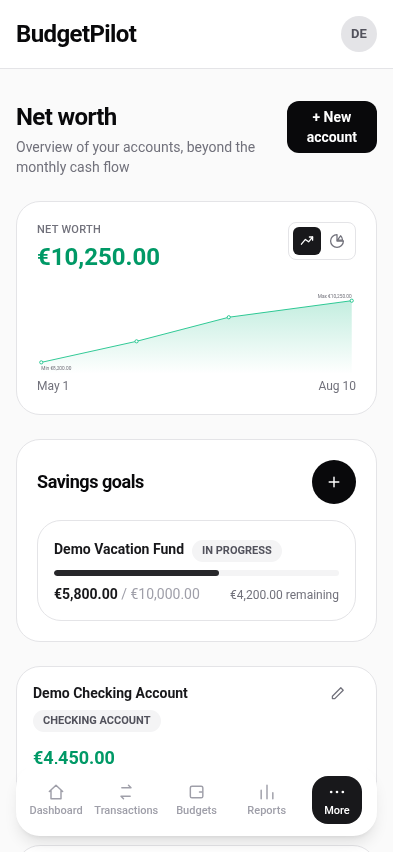
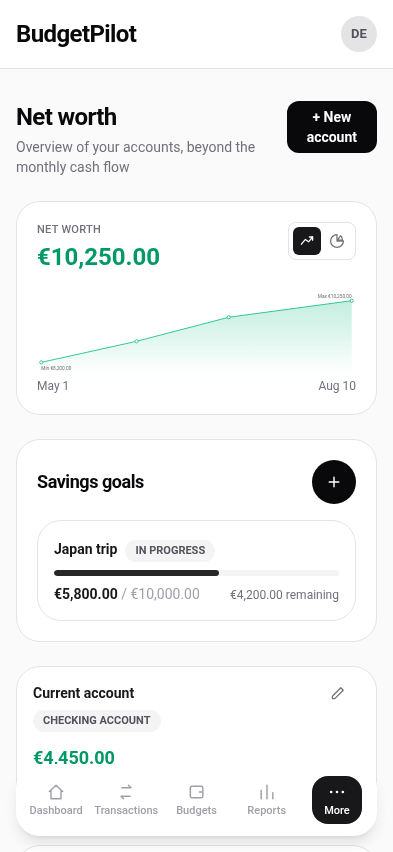
docs(fixture): real merchants, and one seeded state every image comes from
The demo dataset named its merchants « CORNER MARKET », « THE CORNER BISTRO »,
« Demo Corp Salary » and « Demo Vacation Fund ». Nothing about that reads as
a real account, and a screenshot of obviously-fake data teaches the reader to
discount what they are looking at. Every label is now a merchant someone
could actually have: LIDL, PAUL, PIZZA EXPRESS, SUSHI SHOP, TRAINLINE, UBER,
DECATHLON, ODEON CINEMA, CITY PHARMACY, AMAZON, AIRBNB, NETFLIX, RENT,
SALARY, with a « Current account », a « Savings account » and a « Japan trip »
goal.

Amounts and categories are UNCHANGED, deliberately, so every figure the docs
quote — €149.22, €115.50, €50.10, €401.22, the 80% pair, the €4,450.00
anchor — still describes the fixture. Only names moved.

THE ARRANGEMENT MOVED INTO THE SEED. The three budgets and the one user rule
that several images need were previously set up by hand and described in two
folder READMEs; they are now created by `demo-screenshots.mjs`, so a single
command reproduces every screenshot in the repo from nothing. The READMEs
now record what the seed does rather than what a reader must do.

TWO NUMBERS MOVED WITH THE NAMES, AND BOTH WERE RE-MEASURED RATHER THAN
ADJUSTED. Real merchants are matched by the shipped rules, so the rules
preview reports 23 affected transactions instead of 6 — and the
manual-category check was re-run end to end on the new fixture: 23, then 22
with one transaction manually categorised, then 23 again once cleared. That
[…]

Changed region(s): [[0.1527, 0.6408, 0.7023, 0.6714], [0.0916, 0.7934, 0.4885, 0.8239]]

diff --git a/docs/using/dashboard.md b/docs/using/dashboard.md
@@ -55,20 +55,21 @@ Expenses and contributes to two different categories. See
 **Insights** collapses and expands. Open it to see what the app thinks is
 worth your attention right now.
 
-![The Insights panel expanded, showing a Dining out budget alert reading "Over by €35.50, €115.50 / €80.00 · 22 days left" with a View category button, and below it a line reading "Dining out up — +294% vs usual (€115.50 vs €29.33 on average)"](../screenshots/dashboard/insights-desktop.png)
+![The Insights panel expanded: a red Dining out alert reading "Over by €35.50", an amber Transport alert reading "€11.90 remaining, 22 days left, about €0.54 a day", and below them a line reading "Dining out up — +294% vs usual"](../screenshots/dashboard/insights-desktop.png)
 
 Two kinds of thing appear here:
 
 - **A budget alert**, when a category is over its limit or heading that way.
-  It states how much is left, how many days remain in the month, and links
-  straight to that category's transactions.
+  It states how much is left and how many days remain in the month. A
+  category that is close but not over also gets the daily pace that would
+  keep it under, and links straight to that category's transactions.
 - **Unusual spending**, when one category is much higher than it usually is.
   The comparison figure is beside it, so you can judge whether it is a real
   change or one large purchase.
 
-The badge counts **budget alerts only**. Seeing `1 to review` above a panel
-holding two items is not a miscount: the unusual-spending line is not an
-alert.
+The badge counts **budget alerts only**. Above a panel holding three items
+it reads `2 to review`, and that is not a miscount: two of them are budget
+alerts and the third, the unusual-spending line, is not.
 
 **View category** on either one opens the transactions list already filtered
 to that category, which is where you can actually do something about it.

diff --git a/docs/screenshots/rules/README.md b/docs/screenshots/rules/README.md
@@ -6,13 +6,12 @@ Captured with:
 BASE_URL=http://localhost:4175 node scripts/doc-screenshots.mjs rules
 ```
 
+against an instance seeded by `scripts/demo-screenshots.mjs`.
+
 ## The arrangement they need
 
-**One rule of your own**, alongside the 156 that ship. Without it the list
-is 156 identical `PREDEFINED` rows and no image can show what a rule you
-wrote looks like, which is the thing the page is for.
-
-The one used here:
+**One rule of the user's own**, alongside the 156 that ship, created by the
+seed:
 
 | Field           | Value                |
 | --------------- | -------------------- |
@@ -21,11 +20,13 @@ The one used here:
 | Target category | Restauration         |
 | Target nature   | none                 |
 
-It is chosen so the **preview** image shows both outcomes at once: the rule
-moves the bakery from Groceries to Dining out, while the shipped `Uber` rule
-matches transactions already in Transport and changes nothing. A preview
-where every row is a real change would hide the fact that the count is
-matches rather than changes.
+Without it every row in the table is an identical `PREDEFINED` one and no
+image can show what a rule you wrote looks like.
+
+It also gives the preview a row that **changes** something, next to the
+shipped rules matching transactions already in the right category, which
+change nothing. Both outcomes are in one image, so the affected count reads
+as the upper bound it is rather than as a promise of that many edits.
 
 `preview-desktop.png` is captured from `/rules?preview=1`.
 

diff --git a/docs/screenshots/budgets/README.md b/docs/screenshots/budgets/README.md
@@ -6,10 +6,12 @@ Captured with:
 BASE_URL=http://localhost:4175 node scripts/doc-screenshots.mjs budgets
 ```
 
+against an instance seeded by `scripts/demo-screenshots.mjs`.
+
 ## The arrangement they need
 
 The point of the overview image is that all **three** states are visible at
-once, so the instance must hold one budget of each before capturing:
+once, so the seed creates one budget of each:
 
 | Category   | Limit  | Spent this month | State      |
 | ---------- | ------ | ---------------- | ---------- |
@@ -18,12 +20,9 @@ once, so the instance must hold one budget of each before capturing:
 | Transport  | 62.00  | 50.10            | Near limit |
 
 Transport's limit is 62.00 rather than a round number for a reason: 50.10 of
-62.00 is 80.8%, which is the first side of the 80% boundary, and 50.10 of
-63.00 is 79.5%, which is the other. Those two figures are what the reference
-page's threshold claim rests on, so the fixture keeps one of them.
-
-The spending figures come from the demo dataset that
-`scripts/demo-screenshots.mjs` seeds.
+62.00 is 80.8%, on one side of the 80% boundary, and 50.10 of 63.00 is
+79.5%, on the other. Those two figures are what the reference page's
+threshold claim rests on, so the fixture keeps one of them.
 
 ## Language
 

diff --git a/docs/reference/dashboard.md b/docs/reference/dashboard.md
@@ -42,13 +42,14 @@ splitting. See the
 | Budget alert     | A category with a budget is over it, or near it |
 | Unusual spending | A category is well above its own usual level    |
 
-**The badge counts budget alerts only.** A panel can hold an unusual-spending
-line and still say `1 to review`, because that line is not an alert. When
-there is no alert at all, no badge is shown.
+**The badge counts budget alerts only.** A panel holding two budget alerts
+and one unusual-spending line reads `2 to review`, because the third item is
+not an alert. When there is no alert at all, no badge is shown.
 
 A budget alert states the spend, the limit, and how many days are left in
-the month. **View category** opens the transactions list filtered to that
-category.
+the month. One that is near its limit rather than past it also gives the
+daily pace that would keep it under. **View category** opens the
+transactions list filtered to that category.
 
 ## Recent transactions
 

diff --git a/docs/using/reports.md b/docs/using/reports.md
@@ -57,13 +57,13 @@ transactions each category holds.
 
 **Largest expenses** lists the five biggest single expenses of the period.
 
-![Largest expenses: five rows with a label, a category and an amount](../screenshots/reports/largest-expenses-desktop.png)
+![Largest expenses: five rows, each with a merchant, a category and an amount](../screenshots/reports/largest-expenses-desktop.png)
 
 In this table the **Label** column appends the transaction's category to the
 merchant. For the fourteen categories BudgetPilot creates for you, the name
 appended is the stored one, which is French, so a row can read
-`Corner Market - Alimentation` while the Category column beside it reads
-`Groceries`. Both name the same category.
+`Lidl - Alimentation` while the Category column beside it reads `Groceries`.
+Both name the same category.
 
 ## The three-month projection
 

diff --git a/docs/reference/reports.md b/docs/reference/reports.md
@@ -54,10 +54,10 @@ The **five** largest single expenses of the period.
 
 The **Label** column is the merchant with the category appended. For the
 fourteen categories BudgetPilot creates for you, that appended name is the
-**stored** one, which is French, so a row can read `Corner Market -
-Alimentation` beside a Category column reading `Groceries`. Both name the
-same category. Categories you create yourself have one name and cannot
-disagree with themselves.
+**stored** one, which is French, so a row can read `Lidl - Alimentation`
+beside a Category column reading `Groceries`. Both name the same category.
+Categories you create yourself have one name and cannot disagree with
+themselves.
 
 ## Cash-flow forecast
 

diff --git a/docs/reference/rules.md b/docs/reference/rules.md
@@ -51,10 +51,10 @@ upper bound on what will actually change.
 ## The manual-category exclusion
 
 **A rule never overrides a category set by hand.** Measured rather than
-quoted: a preview reporting 6 affected transactions dropped to **5** as soon
-as one of them was given a manual category on the transactions screen, and
-that transaction left the list. Clearing the manual category put it back
-at 6.
+quoted: a preview reporting **23** affected transactions dropped to **22**
+as soon as one of them was given a manual category on the transactions
+screen, and that transaction left the list. Clearing the manual category put
+it back to 23.
 
 This is what makes running the rules over your whole history safe.
 

diff --git a/docs/using/rules.md b/docs/using/rules.md
@@ -41,7 +41,7 @@ covers several spellings of the same thing.
 **Preview** lists the transactions the rules match, with the category each
 one has now and the category it would get.
 
-![The preview panel: 6 transactions affected, listing PAUL going from Groceries to Dining out, and UBER staying in Transport](../screenshots/rules/preview-desktop.png)
+![The preview panel: 23 transactions affected, with one row moving a bakery from Groceries to Dining out and four rows whose current and target categories are the same](../screenshots/rules/preview-desktop.png)
 
 Read the **Current** and **Target** columns together. A row where they are
 the same is a rule matching something already in the right place, which
